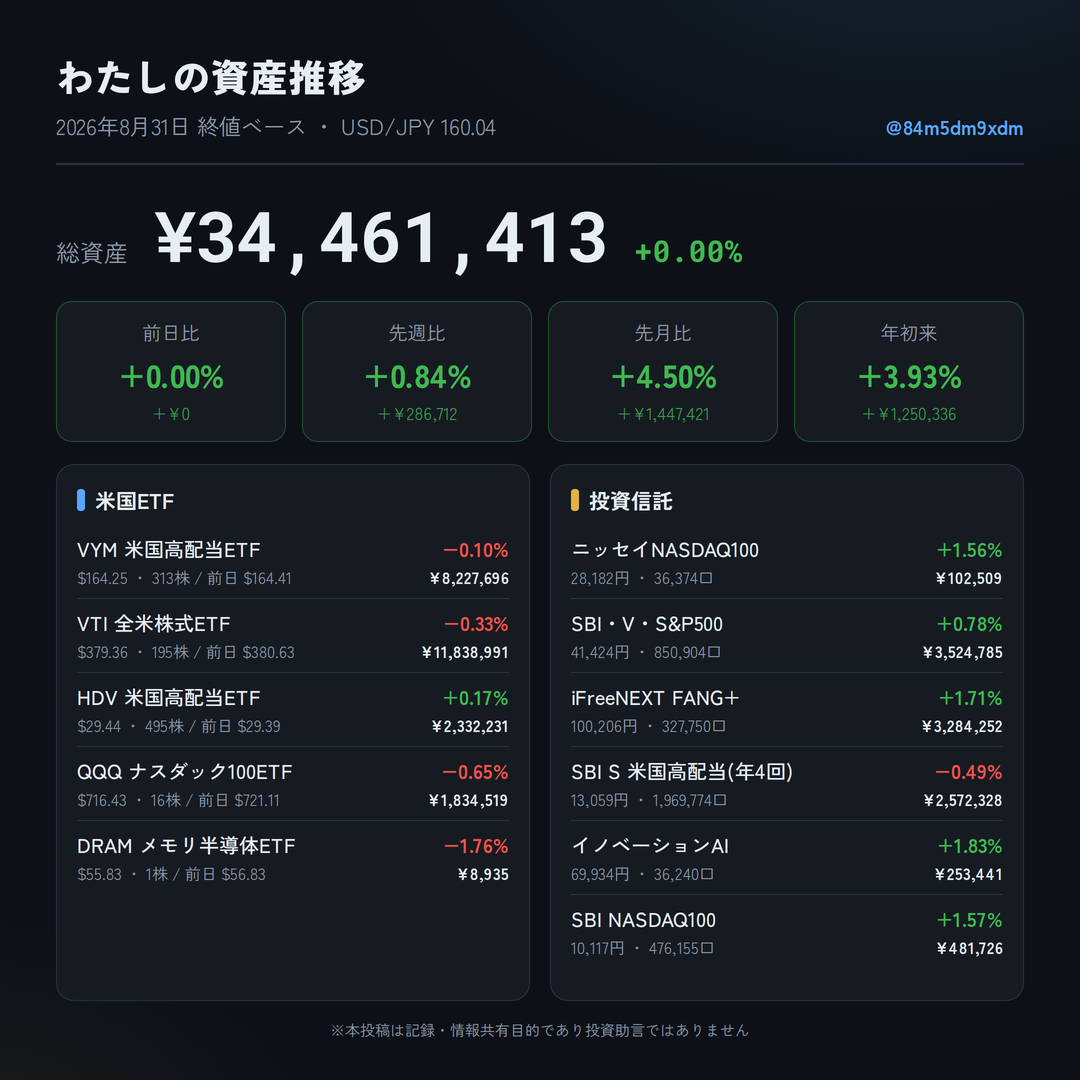
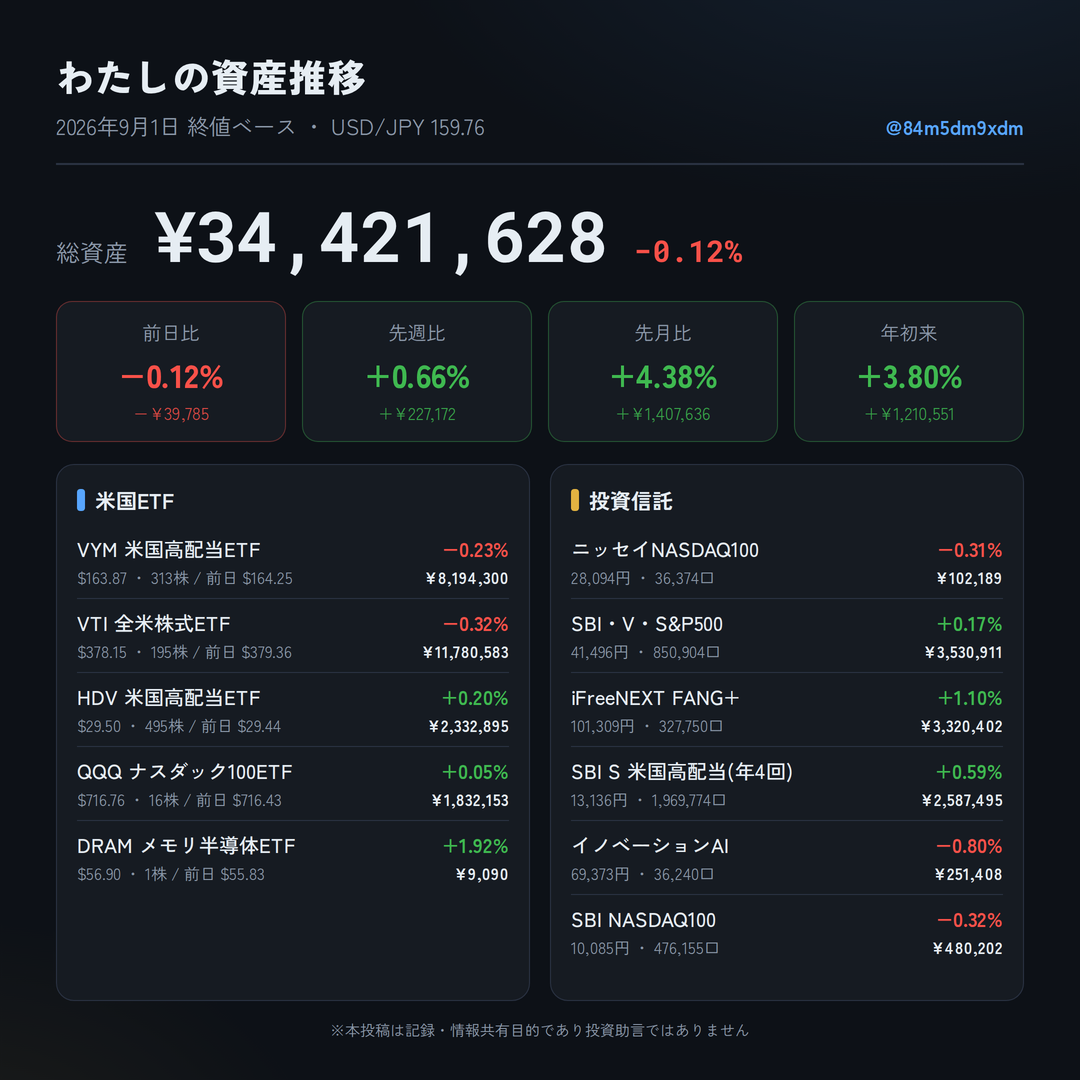
update: 2026-09-01

diff --git a/slide/allocation.html b/slide/allocation.html
@@ -54,21 +54,21 @@ footer { margin-top:18px; text-align:center; font-size:15px; color:var(--dim); }
   <header>
     <div>
       <div class="title">わたしの資産推移｜資産構成</div>
-      <div class="date">2026年8月31日 時点</div>
+      <div class="date">2026年9月1日 時点</div>
     </div>
     <div class="acct">@84m5dm9xdm</div>
   </header>
 
   <div class="total-wrap">
     <span class="total-label">総資産</span>
-    <span class="total mono">¥34,461,413</span>
+    <span class="total mono">¥34,421,628</span>
   </div>
 
   <div class="cols">
     <div class="panel cat">
       <div class="panel-h">資産タイプ別</div>
       <div class="donut-wrap">
-        <svg viewBox="0 0 300 300" xmlns="http://www.w3.org/2000/svg"><circle cx="150.0" cy="150.0" r="127.0" fill="none" stroke="#58a6ff" stroke-width="46" stroke-dasharray="561.340 236.625" stroke-dashoffset="-0.000" transform="rotate(-90 150.0 150.0)"/><circle cx="150.0" cy="150.0" r="127.0" fill="none" stroke="#e3b341" stroke-width="46" stroke-dasharray="236.625 561.340" stroke-dashoffset="-561.340" transform="rotate(-90 150.0 150.0)"/></svg>
+        <svg viewBox="0 0 300 300" xmlns="http://www.w3.org/2000/svg"><circle cx="150.0" cy="150.0" r="127.0" fill="none" stroke="#58a6ff" stroke-width="46" stroke-dasharray="559.824 238.140" stroke-dashoffset="-0.000" transform="rotate(-90 150.0 150.0)"/><circle cx="150.0" cy="150.0" r="127.0" fill="none" stroke="#e3b341" stroke-width="46" stroke-dasharray="238.140 559.824" stroke-dashoffset="-559.824" transform="rotate(-90 150.0 150.0)"/></svg>
         <div class="donut-center">
           <div class="dc-big">ETF 70%</div>
           <div class="dc-sub">投信 30%</div>
@@ -78,88 +78,88 @@ footer { margin-top:18px; text-align:center; font-size:15px; color:var(--dim); }
         <div class="lg">
           <span class="dot" style="background:#58a6ff"></span>
           <span class="lg-name">米国ETF</span>
-          <span class="lg-pct">70.3%</span>
-          <span class="lg-jpy">¥24,242,372</span>
+          <span class="lg-pct">70.2%</span>
+          <span class="lg-jpy">¥24,149,021</span>
         </div>
         <div class="lg">
           <span class="dot" style="background:#e3b341"></span>
           <span class="lg-name">投資信託</span>
-          <span class="lg-pct">29.7%</span>
-          <span class="lg-jpy">¥10,219,041</span>
+          <span class="lg-pct">29.8%</span>
+          <span class="lg-jpy">¥10,272,607</span>
         </div>
     </div>
 
     <div class="panel sym">
       <div class="panel-h">銘柄別</div>
       <div class="donut-wrap small">
-        <svg viewBox="0 0 260 260" xmlns="http://www.w3.org/2000/svg"><circle cx="130.0" cy="130.0" r="110.0" fill="none" stroke="#58a6ff" stroke-width="40" stroke-dasharray="237.440 453.710" stroke-dashoffset="-0.000" transform="rotate(-90 130.0 130.0)"/><circle cx="130.0" cy="130.0" r="110.0" fill="none" stroke="#3fb950" stroke-width="40" stroke-dasharray="165.013 526.138" stroke-dashoffset="-237.440" transform="rotate(-90 130.0 130.0)"/><circle cx="130.0" cy="130.0" r="110.0" fill="none" stroke="#56d4dd" stroke-width="40" stroke-dasharray="70.692 620.458" stroke-dashoffset="-402.453" transform="rotate(-90 130.0 130.0)"/><circle cx="130.0" cy="130.0" r="110.0" fill="none" stroke="#79c0ff" stroke-width="40" stroke-dasharray="65.868 625.282" stroke-dashoffset="-473.145" transform="rotate(-90 130.0 130.0)"/><circle cx="130.0" cy="130.0" r="110.0" fill="none" stroke="#e3b341" stroke-width="40" stroke-dasharray="51.590 639.560" stroke-dashoffset="-539.014" transform="rotate(-90 130.0 130.0)"/><circle cx="130.0" cy="130.0" r="110.0" fill="none" stroke="#f0883e" stroke-width="40" stroke-dasharray="46.775 644.376" stroke-dashoffset="-590.604" transform="rotate(-90 130.0 130.0)"/><circle cx="130.0" cy="130.0" r="110.0" fill="none" stroke="#db61a2" stroke-width="40" stroke-dasharray="36.793 654.358" stroke-dashoffset="-637.378" transform="rotate(-90 130.0 130.0)"/><circle cx="130.0" cy="130.0" r="110.0" fill="none" stroke="#bc8cff" stroke-width="40" stroke-dasharray="9.661 681.489" stroke-dashoffset="-674.171" transform="rotate(-90 130.0 130.0)"/><circle cx="130.0" cy="130.0" r="110.0" fill="none" stroke="#58a6ff" stroke-width="40" stroke-dasharray="5.083 686.067" stroke-dashoffset="-683.832" transform="rotate(-90 130.0 130.0)"/><circle cx="130.0" cy="130.0" r="110.0" fill="none" stroke="#3fb950" stroke-width="40" stroke-dasharray="2.056 689.094" stroke-dashoffset="-688.915" transform="rotate(-90 130.0 130.0)"/><circle cx="130.0" cy="130.0" r="110.0" fill="none" stroke="#56d4dd" stroke-width="40" stroke-dasharray="0.179 690.971" stroke-dashoffset="-690.971" transform="rotate(-90 130.0 130.0)"/></svg>
+        <svg viewBox="0 0 260 260" xmlns="http://www.w3.org/2000/svg"><circle cx="130.0" cy="130.0" r="110.0" fill="none" stroke="#58a6ff" stroke-width="40" stroke-dasharray="236.542 454.609" stroke-dashoffset="-0.000" transform="rotate(-90 130.0 130.0)"/><circle cx="130.0" cy="130.0" r="110.0" fill="none" stroke="#3fb950" stroke-width="40" stroke-dasharray="164.533 526.617" stroke-dashoffset="-236.542" transform="rotate(-90 130.0 130.0)"/><circle cx="130.0" cy="130.0" r="110.0" fill="none" stroke="#56d4dd" stroke-width="40" stroke-dasharray="70.897 620.253" stroke-dashoffset="-401.075" transform="rotate(-90 130.0 130.0)"/><circle cx="130.0" cy="130.0" r="110.0" fill="none" stroke="#79c0ff" stroke-width="40" stroke-dasharray="66.670 624.480" stroke-dashoffset="-471.972" transform="rotate(-90 130.0 130.0)"/><circle cx="130.0" cy="130.0" r="110.0" fill="none" stroke="#e3b341" stroke-width="40" stroke-dasharray="51.954 639.196" stroke-dashoffset="-538.642" transform="rotate(-90 130.0 130.0)"/><circle cx="130.0" cy="130.0" r="110.0" fill="none" stroke="#f0883e" stroke-width="40" stroke-dasharray="46.842 644.308" stroke-dashoffset="-590.596" transform="rotate(-90 130.0 130.0)"/><circle cx="130.0" cy="130.0" r="110.0" fill="none" stroke="#db61a2" stroke-width="40" stroke-dasharray="36.788 654.363" stroke-dashoffset="-637.438" transform="rotate(-90 130.0 130.0)"/><circle cx="130.0" cy="130.0" r="110.0" fill="none" stroke="#bc8cff" stroke-width="40" stroke-dasharray="9.642 681.508" stroke-dashoffset="-674.226" transform="rotate(-90 130.0 130.0)"/><circle cx="130.0" cy="130.0" r="110.0" fill="none" stroke="#58a6ff" stroke-width="40" stroke-dasharray="5.048 686.102" stroke-dashoffset="-683.868" transform="rotate(-90 130.0 130.0)"/><circle cx="130.0" cy="130.0" r="110.0" fill="none" stroke="#3fb950" stroke-width="40" stroke-dasharray="2.052 689.099" stroke-dashoffset="-688.916" transform="rotate(-90 130.0 130.0)"/><circle cx="130.0" cy="130.0" r="110.0" fill="none" stroke="#56d4dd" stroke-width="40" stroke-dasharray="0.183 690.968" stroke-dashoffset="-690.968" transform="rotate(-90 130.0 130.0)"/></svg>
       </div>
       
         <div class="lg">
           <span class="dot" style="background:#58a6ff"></span>
           <span class="lg-name">VTI</span>
-          <span class="lg-pct">34.4%</span>
-          <span class="lg-jpy">¥11,838,991</span>
+          <span class="lg-pct">34.2%</span>
+          <span class="lg-jpy">¥11,780,583</span>
         </div>
         <div class="lg">
           <span class="dot" style="background:#3fb950"></span>
           <span class="lg-name">VYM</span>
-          <span class="lg-pct">23.9%</span>
-          <span class="lg-jpy">¥8,227,696</span>
+          <span class="lg-pct">23.8%</span>
+          <span class="lg-jpy">¥8,194,300</span>
         </div>
         <div class="lg">
           <span class="dot" style="background:#56d4dd"></span>
           <span class="lg-name">SBI・V・S&P500</span>
-          <span class="lg-pct">10.2%</span>
-          <span class="lg-jpy">¥3,524,785</span>
+          <span class="lg-pct">10.3%</span>
+          <span class="lg-jpy">¥3,530,911</span>
         </div>
         <div class="lg">
           <span class="dot" style="background:#79c0ff"></span>
           <span class="lg-name">iFreeNEXT FANG+</span>
-          <span class="lg-pct">9.5%</span>
-          <span class="lg-jpy">¥3,284,252</span>
+          <span class="lg-pct">9.6%</span>
+          <span class="lg-jpy">¥3,320,402</span>
         </div>
         <div class="lg">
           <span class="dot" style="background:#e3b341"></span>
           <span class="lg-name">SBI S 米国高配当(年4回)</span>
           <span class="lg-pct">7.5%</span>
-          <span class="lg-jpy">¥2,572,328</span>
+          <span class="lg-jpy">¥2,587,495</span>
         </div>
         <div class="lg">
           <span class="dot" style="background:#f0883e"></span>
           <span class="lg-name">HDV</span>
           <span class="lg-pct">6.8%</span>
-          <span class="lg-jpy">¥2,332,231</span>
+          <span class="lg-jpy">¥2,332,895</span>
         </div>
         <div class="lg">
           <span class="dot" style="background:#db61a2"></span>
           <span class="lg-name">QQQ</span>
           <span class="lg-pct">5.3%</span>
-          <span class="lg-jpy">¥1,834,519</span>
+          <span class="lg-jpy">¥1,832,153</span>
         </div>
         <div class="lg">
           <span class="dot" style="background:#bc8cff"></span>
           <span class="lg-name">SBI NASDAQ100</span>
           <span class="lg-pct">1.4%</span>
-          <span class="lg-jpy">¥481,726</span>
+          <span class="lg-jpy">¥480,202</span>
         </div>
         <div class="lg">
           <span class="dot" style="background:#58a6ff"></span>
           <span class="lg-name">イノベーションAI</span>
           <span class="lg-pct">0.7%</span>
-          <span class="lg-jpy">¥253,441</span>
+          <span class="lg-jpy">¥251,408</span>
         </div>
         <div class="lg">
           <span class="dot" style="background:#3fb950"></span>
           <span class="lg-name">ニッセイNASDAQ100</span>
           <span class="lg-pct">0.3%</span>
-          <span class="lg-jpy">¥102,509</span>
+          <span class="lg-jpy">¥102,189</span>
         </div>
         <div class="lg">
           <span class="dot" style="background:#56d4dd"></span>
           <span class="lg-name">DRAM</span>
           <span class="lg-pct">0.0%</span>
-          <span class="lg-jpy">¥8,935</span>
+          <span class="lg-jpy">¥9,090</span>
         </div>
     </div>
   </div>

diff --git a/slide/slide.html b/slide/slide.html
@@ -62,37 +62,37 @@ footer { margin-top:18px; text-align:center; font-size:15px; color:var(--dim); }
   <header>
     <div>
       <div class="title">わたしの資産推移</div>
-      <div class="date">2026年8月31日 終値ベース ・ USD/JPY 160.04</div>
+      <div class="date">2026年9月1日 終値ベース ・ USD/JPY 159.76</div>
     </div>
     <div class="acct">@84m5dm9xdm</div>
   </header>
 
   <div class="total-wrap">
     <span class="total-label">総資産</span>
-    <span class="total mono">¥34,461,413</span>
-    <span class="total-day mono up">+0.00%</span>
+    <span class="total mono">¥34,421,628</span>
+    <span class="total-day mono down">−0.12%</span>
   </div>
 
   <div class="cmps">
-        <div class="cmp up">
+        <div class="cmp down">
           <div class="cmp-label">前日比</div>
-          <div class="cmp-pct">+0.00%</div>
-          <div class="cmp-jpy">+¥0</div>
+          <div class="cmp-pct">−0.12%</div>
+          <div class="cmp-jpy">−¥39,785</div>
         </div>
         <div class="cmp up">
           <div class="cmp-label">先週比</div>
-          <div class="cmp-pct">+0.84%</div>
-          <div class="cmp-jpy">+¥286,712</div>
+          <div class="cmp-pct">+0.66%</div>
+          <div class="cmp-jpy">+¥227,172</div>
         </div>
         <div class="cmp up">
           <div class="cmp-label">先月比</div>
-          <div class="cmp-pct">+4.50%</div>
-          <div class="cmp-jpy">+¥1,447,421</div>
+          <div class="cmp-pct">+4.38%</div>
+          <div class="cmp-jpy">+¥1,407,636</div>
         </div>
         <div class="cmp up">
           <div class="cmp-label">年初来</div>
-          <div class="cmp-pct">+3.93%</div>
-          <div class="cmp-jpy">+¥1,250,336</div>
+          <div class="cmp-pct">+3.80%</div>
+          <div class="cmp-jpy">+¥1,210,551</div>
         </div></div>
 
   <div class="cols">
@@ -102,51 +102,51 @@ footer { margin-top:18px; text-align:center; font-size:15px; color:var(--dim); }
             <div class="hold">
               <div class="hold-main">
                 <span class="hold-name">VYM 米国高配当ETF</span>
-                <span class="hold-chg down">−0.10%</span>
+                <span class="hold-chg down">−0.23%</span>
               </div>
               <div class="hold-sub">
-                <span>$164.25 ・ 313株 / 前日 $164.41</span>
-                <span class="hold-jpy">¥8,227,696</span>
+                <span>$163.87 ・ 313株 / 前日 $164.25</span>
+                <span class="hold-jpy">¥8,194,300</span>
               </div>
             </div>
             <div class="hold">
               <div class="hold-main">
                 <span class="hold-name">VTI 全米株式ETF</span>
-                <span class="hold-chg down">−0.33%</span>
+                <span class="hold-chg down">−0.32%</span>
               </div>
               <div class="hold-sub">
-                <span>$379.36 ・ 195株 / 前日 $380.63</span>
-                <span class="hold-jpy">¥11,838,991</span>
+                <span>$378.15 ・ 195株 / 前日 $379.36</span>
+                <span class="hold-jpy">¥11,780,583</span>
               </div>
             </div>
             <div class="hold">
               <div class="hold-main">
                 <span class="hold-name">HDV 米国高配当ETF</span>
-                <span class="hold-chg up">+0.17%</span>
+                <span class="hold-chg up">+0.20%</span>
               </div>
               <div class="hold-sub">
-                <span>$29.44 ・ 495株 / 前日 $29.39</span>
-                <span class="hold-jpy">¥2,332,231</span>
+                <span>$29.50 ・ 495株 / 前日 $29.44</span>
+                <span class="hold-jpy">¥2,332,895</span>
               </div>
             </div>
             <div class="hold">
               <div class="hold-main">
                 <span class="hold-name">QQQ ナスダック100ETF</span>
-                <span class="hold-chg down">−0.65%</span>
+                <span class="hold-chg up">+0.05%</span>
               </div>
               <div class="hold-sub">
-                <span>$716.43 ・ 16株 / 前日 $721.11</span>
-                <span class="hold-jpy">¥1,834,519</span>
+                <span>$716.76 ・ 16株 / 前日 $716.43</span>
+                <span class="hold-jpy">¥1,832,153</span>
               </div>
             </div>
             <div class="hold">
               <div class="hold-main">
                 <span class="hold-name">DRAM メモリ半導体ETF</span>
-                <span class="hold-chg down">−1.76%</span>
+                <span class="hold-chg up">+1.92%</span>
               </div>
               <div class="hold-sub">
-                <span>$55.83 ・ 1株 / 前日 $56.83</span>
-                <span class="hold-jpy">¥8,935</span>
+                <span>$56.90 ・ 1株 / 前日 $55.83</span>
+                <span class="hold-jpy">¥9,090</span>
               </div>
             </div>
     </div>
@@ -156,61 +156,61 @@ footer { margin-top:18px; text-align:center; font-size:15px; color:var(--dim); }
             <div class="hold">
               <div class="hold-main">
                 <span class="hold-name">ニッセイNASDAQ100</span>
-                <span class="hold-chg up">+1.56%</span>
+                <span class="hold-chg down">−0.31%</span>
               </div>
               <div class="hold-sub">
-                <span>28,182円 ・ 36,374口</span>
-                <span class="hold-jpy">¥102,509</span>
+                <span>28,094円 ・ 36,374口</span>
+                <span class="hold-jpy">¥102,189</span>
               </div>
             </div>
             <div class="hold">
               <div class="hold-main">
                 <span class="hold-name">SBI・V・S&P500</span>
-                <span class="hold-chg up">+0.78%</span>
+                <span class="hold-chg up">+0.17%</span>
               </div>
               <div class="hold-sub">
-                <span>41,424円 ・ 850,904口</span>
-                <span class="hold-jpy">¥3,524,785</span>
+                <span>41,496円 ・ 850,904口</span>
+                <span class="hold-jpy">¥3,530,911</span>
               </div>
             </div>
             <div class="hold">
               <div class="hold-main">
                 <span class="hold-name">iFreeNEXT FANG+</span>
-                <span class="hold-chg up">+1.71%</span>
+                <span class="hold-chg up">+1.10%</span>
               </div>
               <div class="hold-sub">
-                <span>100,206円 ・ 327,750口</span>
-                <span class="hold-jpy">¥3,284,252</span>
+                <span>101,309円 ・ 327,750口</span>
+                <span class="hold-jpy">¥3,320,402</span>
               </div>
             </div>
             <div class="hold">
               <div class="hold-main">
                 <span class="hold-name">SBI S 米国高配当(年4回)</span>
-                <span class="hold-chg down">−0.49%</span>
+                <span class="hold-chg up">+0.59%</span>
               </div>
               <div class="hold-sub">
-                <span>13,059円 ・ 1,969,774口</span>
-                <span class="hold-jpy">¥2,572,328</span>
+                <span>13,136円 ・ 1,969,774口</span>
+                <span class="hold-jpy">¥2,587,495</span>
               </div>
             </div>
             <div class="hold">
               <div class="hold-main">
                 <span class="hold-name">イノベーションAI</span>
-                <span class="hold-chg up">+1.83%</span>
+                <span class="hold-chg down">−0.80%</span>
               </div>
               <div class="hold-sub">
-                <span>69,934円 ・ 36,240口</span>
-                <span class="hold-jpy">¥253,441</span>
+                <span>69,373円 ・ 36,240口</span>
+                <span class="hold-jpy">¥251,408</span>
               </div>
             </div>
             <div class="hold">
               <div class="hold-main">
                 <span class="hold-name">SBI NASDAQ100</span>
-                <span class="hold-chg up">+1.57%</span>
+                <span class="hold-chg down">−0.32%</span>
               </div>
               <div class="hold-sub">
-                <span>10,117円 ・ 476,155口</span>
-                <span class="hold-jpy">¥481,726</span>
+                <span>10,085円 ・ 476,155口</span>
+                <span class="hold-jpy">¥480,202</span>
               </div>
             </div>
     </div>
